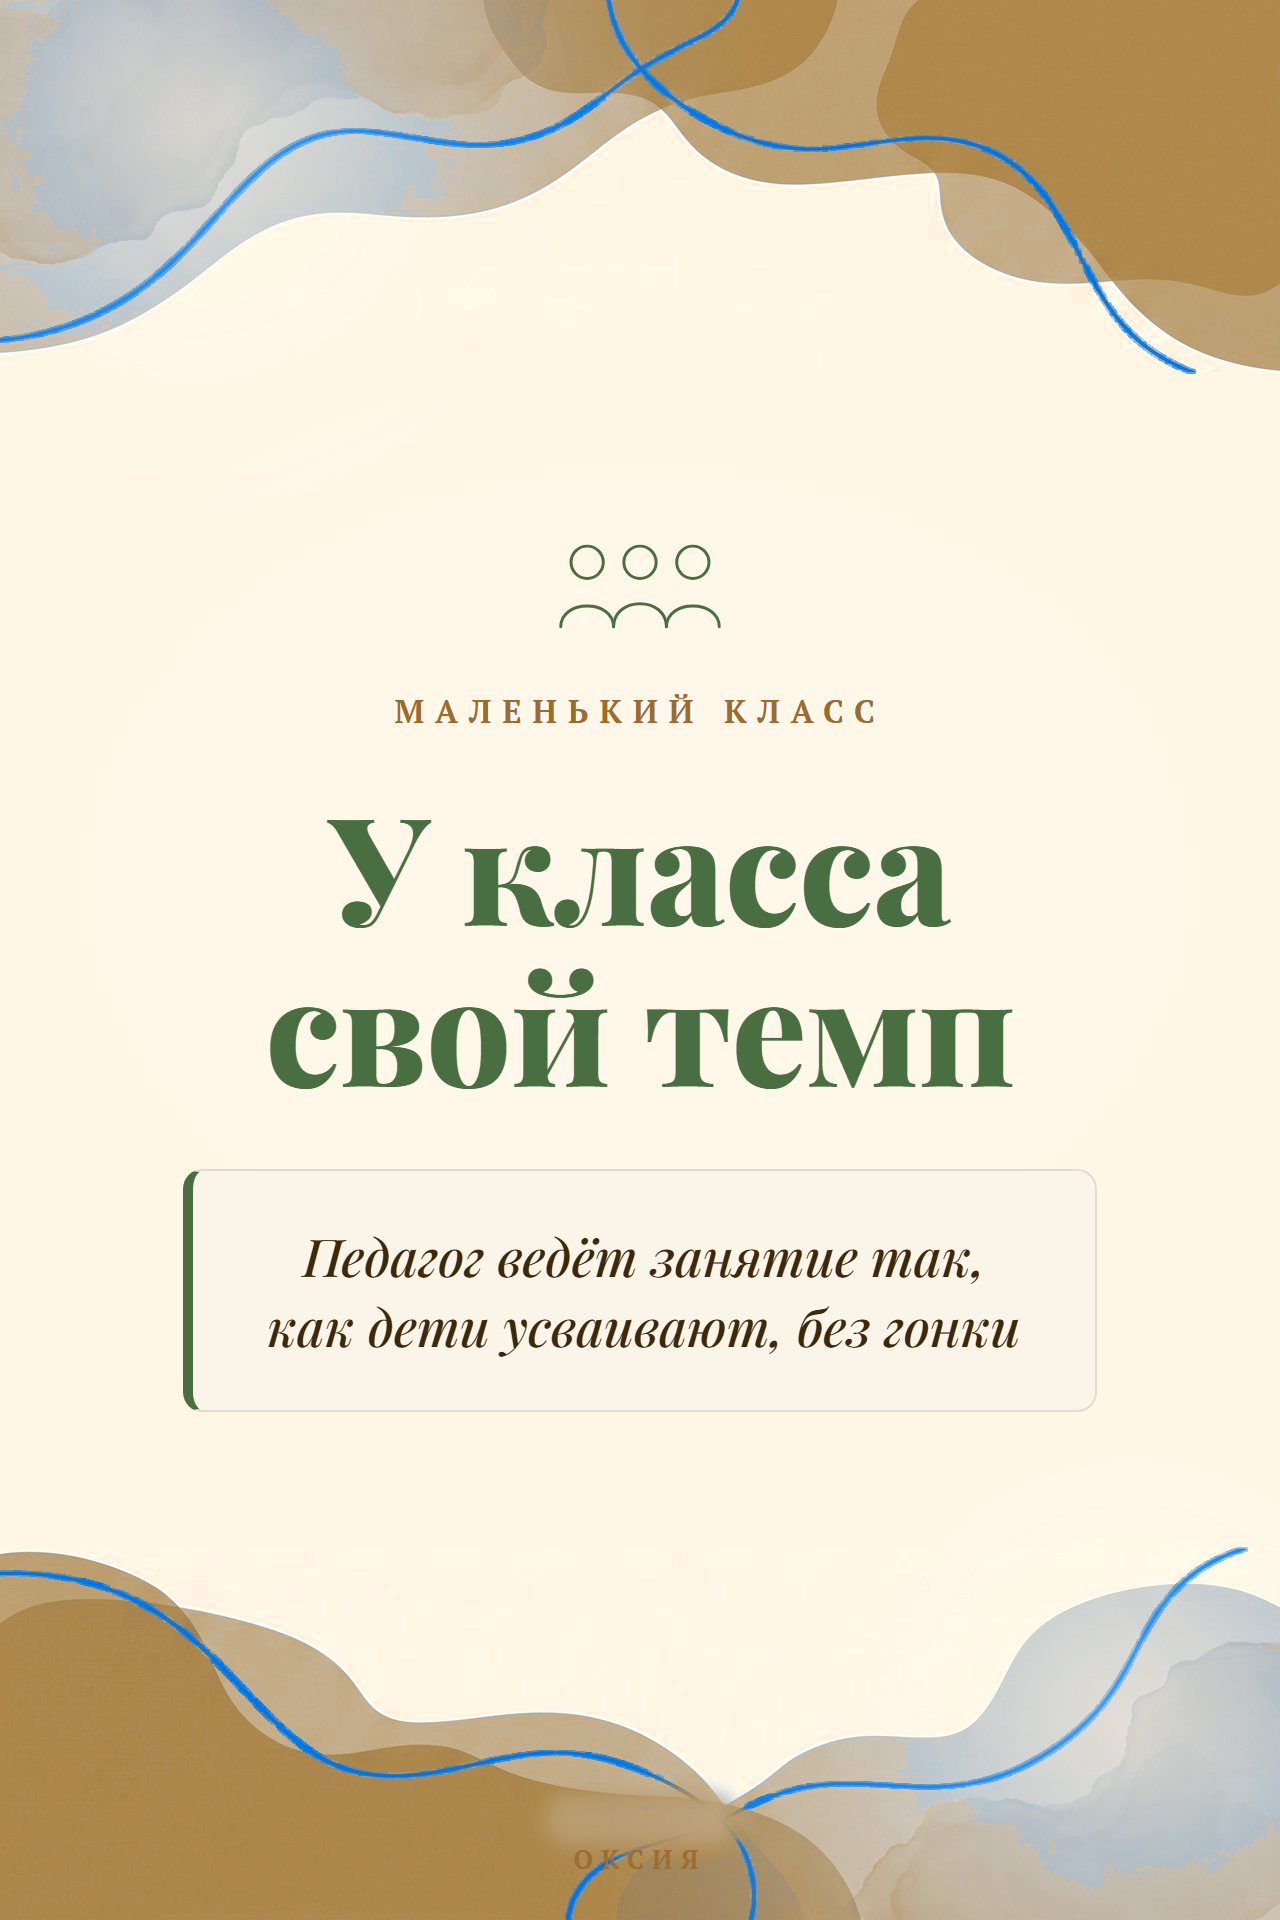
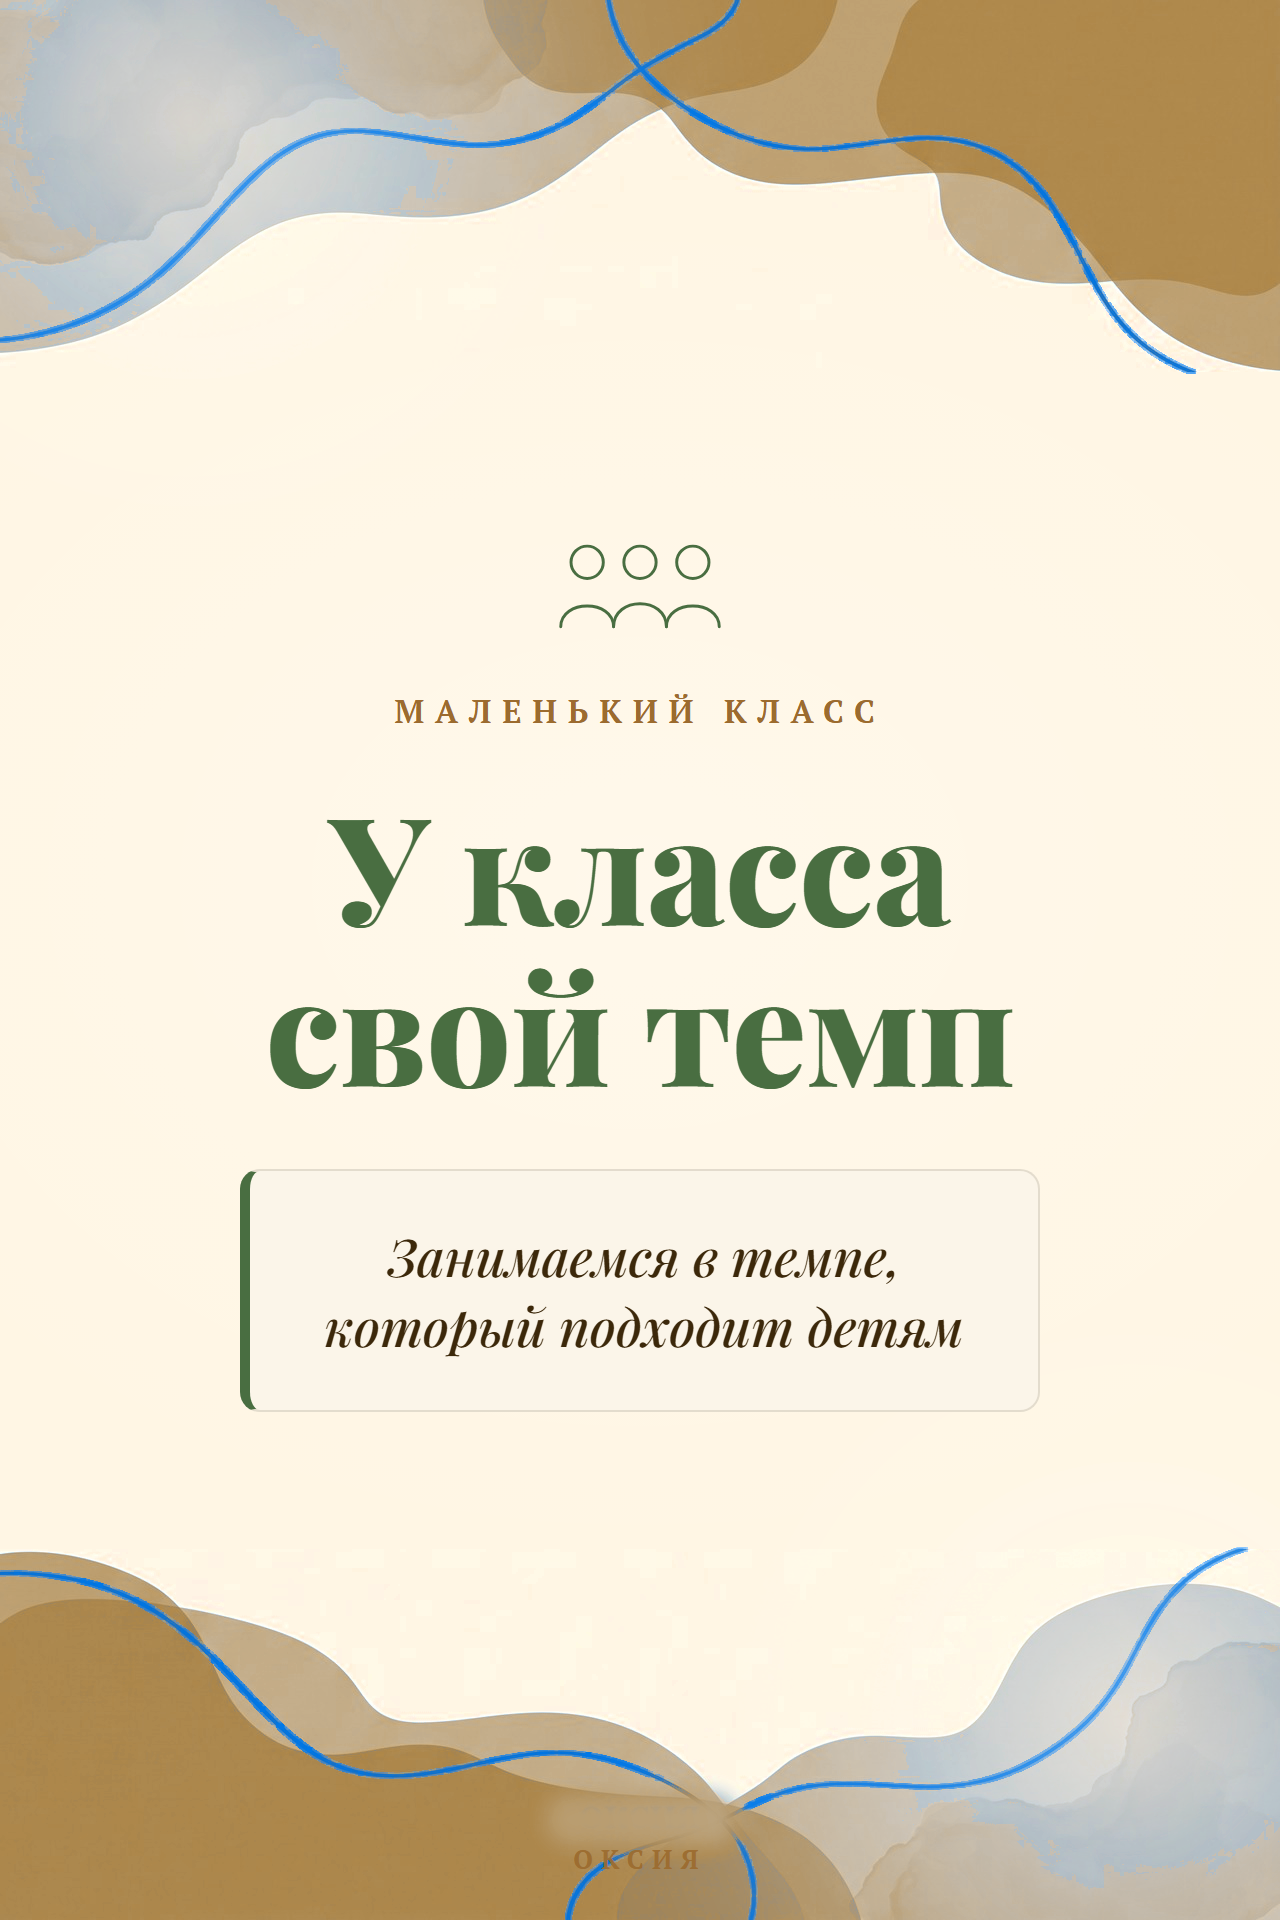
Слайды 14, 15: убраны кальки
- 14: "Занимаемся в темпе, который подходит детям" вместо "ведёт занятие так, как дети усваивают"
- 15: "Педагог знает особенности каждого ребёнка" (её формулировка)

Changed region(s): [[0.1875, 0.5938, 0.8125, 0.75], [0.125, 0.5938, 0.1562, 0.75]]

diff --git a/story-preview/_build/slide-bright.html b/story-preview/_build/slide-bright.html
@@ -249,11 +249,11 @@ const S = {
 14:{ bg:'tb-bright-gold', accent:'var(--green-muted)', icon:I.people, isize:'182px', ds:'150px', html:`
   <div class="kick">Маленький класс</div>
   <h1 class="disp">У класса<br>свой темп</h1>
-  <div class="chip">Педагог ведёт занятие так,<br>как дети усваивают, без гонки</div>` },
+  <div class="chip">Занимаемся в темпе,<br>который подходит детям</div>` },
 
-15:{ bg:'tb-bright', align:'left', accent:'var(--blue-muted)', icon:I.people, isize:'188px', ds:'124px', html:`
+15:{ bg:'tb-bright', align:'left', accent:'var(--blue-muted)', icon:I.people, isize:'188px', ds:'92px', html:`
   <div class="kick">Внимание к каждому</div>
-  <h1 class="disp">Педагог знает<br>каждого</h1>
+  <h1 class="disp wrap">Педагог знает особенности<br>каждого ребёнка</h1>
   <div class="lead">Если что-то не понял,<br>разбирают сразу же</div>` },
 
 16:{ bg:'tb-bright-gold', accent:'var(--green-muted)', icon:I.hallmark, isize:'140px', ds:'150px', html:`
